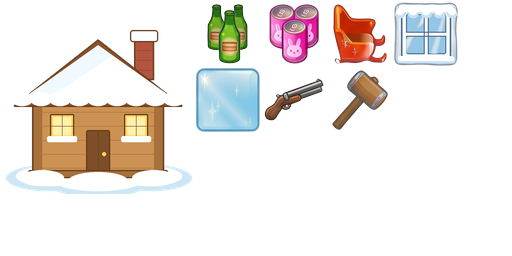
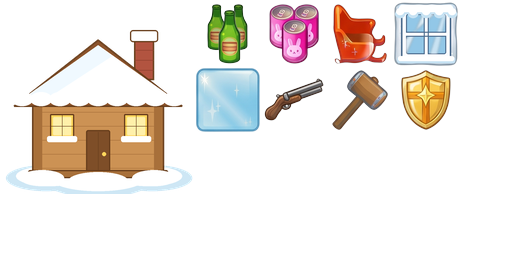
feat(client): extract winter_shield frame onto gameplay7

Changed region(s): [[0.7812, 0.2812, 0.9062, 0.5]]

diff --git a/scripts/extract_winter_assets.py b/scripts/extract_winter_assets.py
@@ -51,6 +51,7 @@ BOX_MALLET = (815, 789, 1007, 996)  # wooden mallet / hammer
 BOX_SHOTGUN = (547, 1331, 777, 1417)  # shotgun (wide, laid out horizontally)
 BOX_ICE = (1295, 1262, 1526, 1486)  # bright light-blue ice tile
 BOX_SNOWBLOCK = (1755, 1262, 1983, 1486)  # plain snow block (window-pane base)
+BOX_SHIELD = (572, 1497, 751, 1712)  # gold shield with the cross-star emblem
 
 GUN_ROTATION = 20  # deg, so the wide shotgun fills the square cell
 
@@ -300,6 +301,7 @@ def build_page() -> tuple[Image.Image, list[tuple[str, int, int, int, int]]]:
         "winter_floor_ice": fill_cell(sheet.crop(BOX_ICE)),
         "winter_gun": build_gun(sheet),
         "winter_hammer": fit_center(trim(sheet.crop(BOX_MALLET))),
+        "winter_shield": fit_center(trim(sheet.crop(BOX_SHIELD))),
     }
 
     # 2px padding everywhere; house occupies the left 192x192 block
@@ -312,6 +314,7 @@ def build_page() -> tuple[Image.Image, list[tuple[str, int, int, int, int]]]:
         ("winter_floor_ice", 196, 68),
         ("winter_gun", 262, 68),
         ("winter_hammer", 328, 68),
+        ("winter_shield", 394, 68),
     ]
 
     page = Image.new("RGBA", (PAGE_W, PAGE_H), (0, 0, 0, 0))
